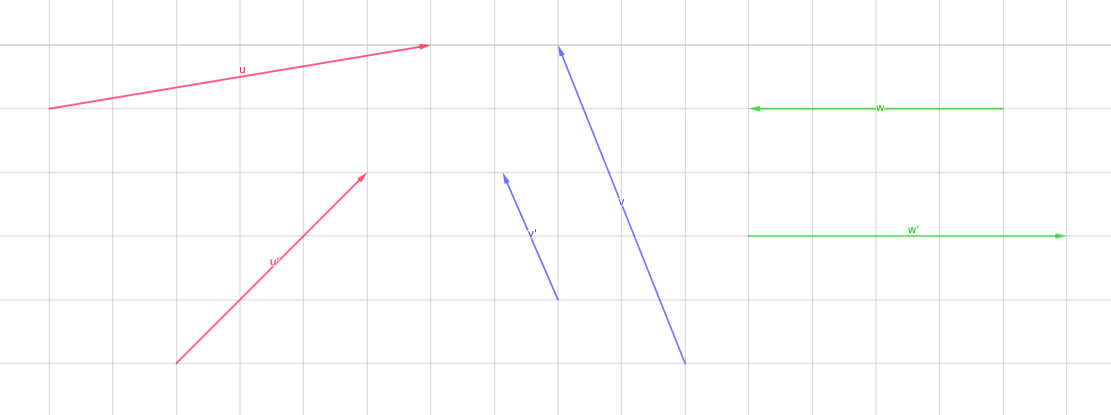
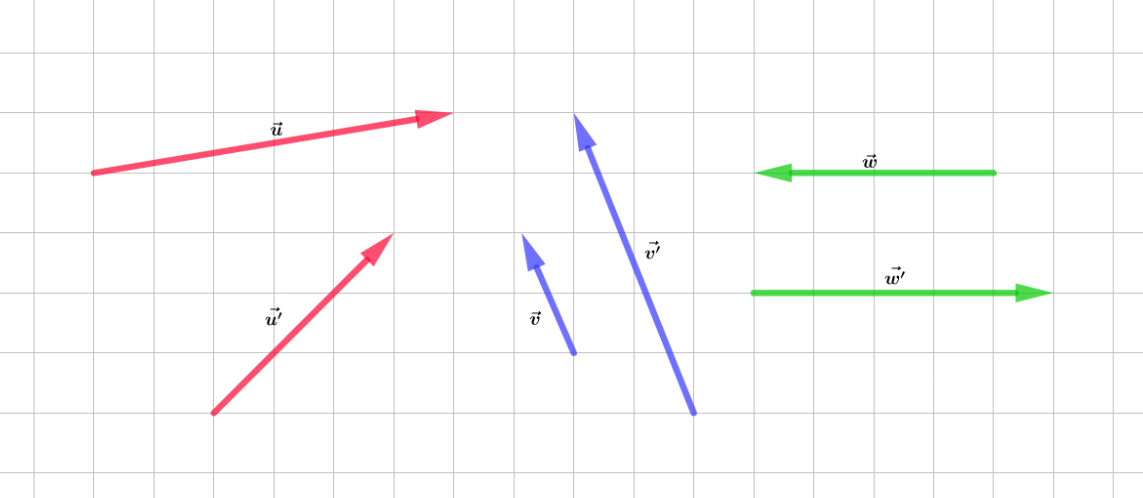
Cours : parallélogramme et égalité de vecteurs

diff --git a/Maths_Seconde/source/Cours/main.tex b/Maths_Seconde/source/Cours/main.tex
@@ -741,14 +741,16 @@ Graphiquement, c'est trouver toutes les abscisses en lesquelles la courbe repré
   \end{tikzpicture}
 \end{minipage}
 
+On peut appliquer cela à toutes les équations : Les équations à une inconnue, qu'on notera ici $x$, sont toujours de la forme $A(x)=B(x)$ où A et B sont des fonctions, puisque les deux membres de l'égalité sont calculables pour un $x$ donné.
+On peut donc toujours la transformer en une égalité de la forme $f(x)=0$, où $f(x)=A(x)-B(x)$  ($f$ est la différence de deux fonctions, c'est donc elle même une fonction)
+
+
 \subsection{Inéquation}
 
 \begin{de}
-    Une \underline{inéquation}, c'est une inégalité entre deux expressions qui s'expriment chacune en fonction d'une même inconnue. Comme dans le cadre d'une équation, \underline{résoudre une inéquation} c'est trouver toutes les valeurs de l'inconnue qui rendent l'équation vraie.
+    Une \underline{inéquation}, c'est une inégalité entre deux expressions qui s'expriment chacune en fonction d'une même inconnue. Comme dans le cadre d'une équation, \underline{résoudre une inéquation} c'est trouver toutes les valeurs de l'inconnue qui rendent l'inégalité vraie.
 \end{de}
 
-On peut appliquer cela à toutes les équations : Les équations à une inconnue, qu'on notera ici $x$, sont toujours de la forme $A(x)=B(x)$ où A et B sont des fonctions, puisque les deux membres de l'égalité sont calculables pour un $x$ donné.
-On peut donc toujours la transformer en une égalité de la forme $f(x)=0$, où $f(x)=A(x)-B(x)$  ($f$ est la différence de deux fonctions, c'est elle même une fonction)
 
 
 \begin{minipage}{0.5\textwidth}  
@@ -1080,10 +1082,10 @@ En plus d'additionner deux vecteurs, on peut également les multiplier par un no
 \end{de}
 
 \begin{prop}
-  Cette multiplication de vecteurs par des réels se comporte comme une multiplication : pour $k$ un réel et $\overrightarrow{u}$ et $\overrightarrow{v}$ deux vecteurs : 
+  Cette multiplication de vecteurs par des réels se comporte comme une multiplication traditionnelle: pour $k$ et $k'$ des nombres réels et $\overrightarrow{u}$ et $\overrightarrow{v}$ deux vecteurs : 
   \begin{enumerate}
     \item $1 \times \overrightarrow{u} = \overrightarrow{u}$, $\overrightarrow{u} + \overrightarrow{u} = 2 \overrightarrow{u}$, $0 \cdot \overrightarrow{u}= \overrightarrow{0}$
-    \item $k(\overrightarrow{u} + \overrightarrow{v})$(distributivité par rapport à l'addition)
+    \item $k(\overrightarrow{u} + \overrightarrow{v}) = k\overrightarrow{u} + k\overrightarrow{v}$(distributivité par rapport à l'addition)
     \item $(kk')\overrightarrow{u} = k(k'\overrightarrow{u})$ (Associativité mixte)
   \end{enumerate}
 \end{prop}
@@ -1136,7 +1138,7 @@ Remarque : C'était prévisible en considérant le vecteur comme un trajet : L'o
   Deux vecteurs non nuls $u$ et $v$ non nuls ont donc même direction si et seulement si il existe un entier $k$ tel que u=kv. 
 \end{de}
 
-  On voit effectivement graphiquement dans un repère que les droites $(AB)$ et $(CD)$ sont "orientées de la même manière" si et seulement si $\overrightarrow(AB)$ et $\overrightarrow{CD}$ sont colinéaires. 
+  On voit effectivement graphiquement dans un repère que les droites $(AB)$ et $(CD)$ sont "orientées de la même manière" si et seulement si $\overrightarrow{AB}$ et $\overrightarrow{CD}$ sont colinéaires. 
 
 On tire de cette vision géométrique (qu'on précisera plus tard dans l'année) des propriétés très utiles pour savoir si des droites sont parallèles :
 
@@ -1165,7 +1167,9 @@ Exemples : les vecteurs dessinés sur la figure \ref{fig:DirectionSens}.
 \begin{figure}
   \centering
 \includegraphics[width=1.0\textwidth]{Vecteurs-DirectionSens.png}
-\caption{\textcolor{red}{Les vecteurs $u$ et $u'$ n'ont pas la même direction}, \textcolor{blue}{les vecteurs $v$ et $v'$ ont même direction et même sens}, \textcolor{green}{les vecteurs $w$ et $w'$ ont même direction, mais un sens opposé}.}
+\caption{\textcolor{red}{Les vecteurs $\vec{u}$ et $\vec{u'}$ n'ont pas la même direction}, 
+\textcolor{blue}{les vecteurs $\vec{v}$ et $\vec{v'}$ ont même direction et même sens}, 
+\textcolor{green}{les vecteurs $\vec{w}$ et $\vec{w'}$ ont même direction, mais un sens opposé}.}
 \label{fig:DirectionSens}
 \end{figure}
 
@@ -1174,13 +1178,29 @@ Exemples : les vecteurs dessinés sur la figure \ref{fig:DirectionSens}.
 Comme souvent en mathématiques, on aime calculer la taille des objets, parce que cela exprime une partie des propriétés d'un objet sous la forme d'un nombre. La longueur d'un vecteur s'appelle la norme.
 
 \begin{de}[Norme d'un vecteur]
-  La norme d'un vecteur $\overrightarrow{AB}$ est égale à la longueur du vecteur, c'est à dire à la distance $AB$.
+  La norme d'un vecteur $\overrightarrow{AB}$ est égale à la longueur du vecteur, c'est à dire à la distance $AB$. On la note $\Vert \overrightarrow{AB} \Vert$
 \end{de}
 
 Pour calculer cette distance quand on dispose des coordonnées, il suffit d'utiliser le bon vieux théorème de Pythagore.
 
 \begin{prop}[Norme d'un vecteur dont on connaît les coordonnées]
-  Soit $\overrightarrow{u}$ un vecteur de coordonnées $\Coord{x}{y}$, la norme de $\overrightarrow{u}$ est égale à $\sqrt{x^2+y^2}$
+  Soit $\overrightarrow{u}$ un vecteur de coordonnées $\Coord{x}{y}$, la norme de $\overrightarrow{u}$ est donnée par la formule  \[ \Vert \vec{u} \Vert = \sqrt{x^2+y^2} \]
+\end{prop}
+
+Note : La norme est donc toujours positive, et même toujours strictement positive si le vecteur n'est pas nul : $\vec{0}$ est le seul vecteur qui a une norme nulle.
+
+On dispose maintenant des trois éléments caractéristiques d'un vecteur : 
+
+\begin{prop}
+  Deux vecteurs non nuls sont égaux si et seulement si ils ont même \textbf{direction}, même \textbf{sens}, et même \textbf{norme}.
+\end{prop}
+
+Exercice : dessiner deux vecteurs qui ont même norme mais pas même direction, deux autres même direction et norme mais pas même sens, et enfin deux qui ont même direction et sens mais pas même norme.
+
+On a déjà vu que multiplier un vecteur par un réel $k$ (différent de $0$) conservait la direction du vecteur, et conservait le sens si $k>0$ (et l'inverse si $k<0$). On va voir que la multiplication par un réel a aussi un effet simple sur la norme du vecteur :
+
+\begin{prop}
+  soit $k$ un nombre réel et $\vec{u}$ un vecteur,  $\Vert k \times \vec{u} \Vert = |k| \times \Vert \vec{u} \Vert$ 
 \end{prop}
 
 
